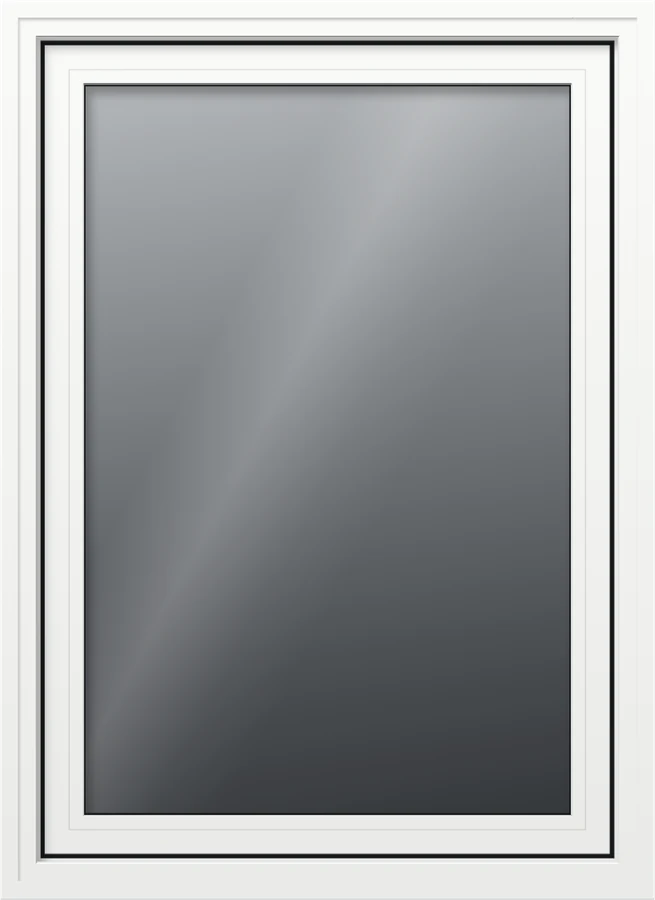
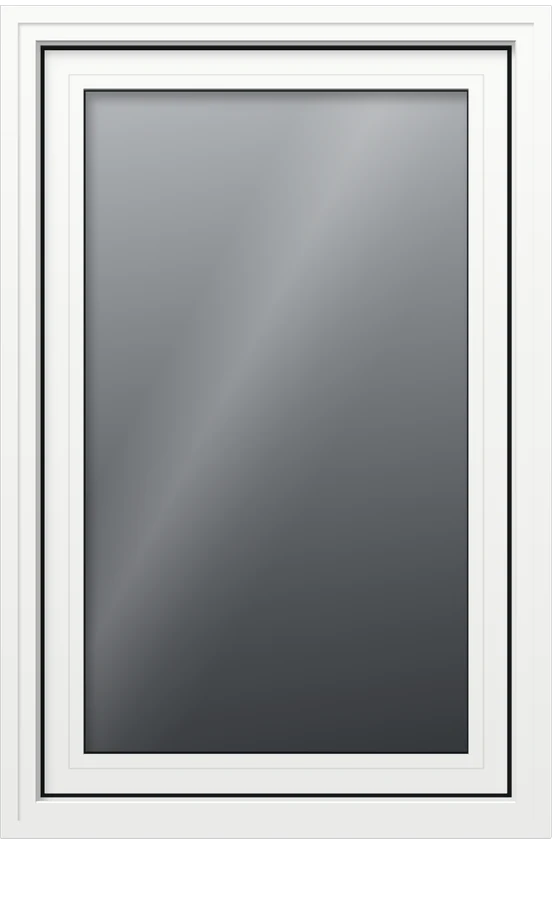
Window type cards: all four windows at the casement's size
Claude-Session: https://claude.ai/code/session_012ZnjH9GAiGLaZBTQj6WK8R

Changed region(s): [[0.0, 0.0, 1.0, 0.9644], [0.0, 0.9956, 1.0, 1.0]]

diff --git a/dist/ua/windows.html b/dist/ua/windows.html
@@ -1,1 +1,1 @@
-<!DOCTYPE html><html lang="uk"> <head><meta charset="utf-8"><meta name="viewport" content="width=device-width, initial-scale=1"><title>Типи пластикових вікон · The Windows</title><meta name="description" content="Пластикові (ПВХ) вікна на замовлення, виготовлені у Вінніпезі, Манітоба. Замір, виробництво та монтаж — The Windows."><link rel="alternate" hreflang="en" href="https://thewindows.ca/windows"><link rel="alternate" hreflang="uk" href="https://thewindows.ca/ua/windows"><link rel="alternate" hreflang="x-default" href="https://thewindows.ca/windows"><link rel="canonical" href="https://thewindows.ca/ua/windows"><meta property="og:type" content="website"><meta property="og:site_name" content="The Windows"><meta property="og:title" content="Типи пластикових вікон · The Windows"><meta property="og:description" content="Пластикові (ПВХ) вікна на замовлення, виготовлені у Вінніпезі, Манітоба. Замір, виробництво та монтаж — The Windows."><meta property="og:url" content="https://thewindows.ca/ua/windows"><meta property="og:locale" content="uk_UA"><script type="application/ld+json">{"@context":"https://schema.org","@type":"HomeAndConstructionBusiness","@id":"https://thewindows.ca/#business","name":"The Windows","description":"Пластикові (ПВХ) вікна на замовлення, виготовлені у Вінніпезі, Манітоба. Замір, виробництво та монтаж — The Windows.","url":"https://thewindows.ca/","telephone":"+12042308145","image":"https://thewindows.ca/apple-touch-icon.png","address":{"@type":"PostalAddress","addressLocality":"Winnipeg","addressRegion":"MB","addressCountry":"CA"},"areaServed":[{"@type":"City","name":"Winnipeg"},{"@type":"AdministrativeArea","name":"Manitoba"}],"knowsLanguage":["en","uk"],"makesOffer":[{"@type":"Offer","itemOffered":{"@type":"Product","name":"Поворотне (casement)","description":"Петлі збоку, відкривається назовні ручкою-кривошипом. Найщільніше прилягання серед відкривних вікон — ідеально для спалень і віталень."}},{"@type":"Offer","itemOffered":{"@type":"Product","name":"Фрамуга (awning)","description":"Петлі зверху, відкривається назовні знизу. Можна залишати відкритим у дощ; часто ставлять над глухими вікнами та в підвалах."}},{"@type":"Offer","itemOffered":{"@type":"Product","name":"Глухе (picture)","description":"Не відкривається. Найвужча рама і найбільше скла: максимум світла та теплоізоляції."}}]}</script><link rel="icon" href="/favicon.svg?v=2" type="image/svg+xml"><link rel="apple-touch-icon" href="/apple-touch-icon.png?v=2"><link rel="stylesheet" href="/_astro/about.CkfMB0qZ.css"></head> <body> <div class="topbar"> <div class="container topbar-inner"> <a href="tel:+12042308145">Тел (204) 230-8145</a> <div class="topbar-links"> <a href="https://theinstaller.ca" rel="noopener">Комерційне скління</a> <span class="langs"> <a href="/windows" class aria-label="English" title="English" hreflang="en"> <svg viewBox="0 0 60 30" width="18" height="12" preserveAspectRatio="none" aria-hidden="true"><clipPath id="uk-clip"><path d="M0 0v30h60V0z"></path></clipPath><path d="M0 0v30h60V0z" fill="#012169"></path><path d="M0 0l60 30m0-30L0 30" stroke="#fff" stroke-width="6"></path><path d="M0 0l60 30m0-30L0 30" clip-path="url(#uk-clip)" stroke="#C8102E" stroke-width="4"></path><path d="M30 0v30M0 15h60" stroke="#fff" stroke-width="10"></path><path d="M30 0v30M0 15h60" stroke="#C8102E" stroke-width="6"></path></svg> </a> <a href="/ua/windows" class="active" aria-label="Українська" title="Українська" hreflang="uk"> <svg viewBox="0 0 60 30" width="18" height="12" preserveAspectRatio="none" aria-hidden="true"><rect width="60" height="15" fill="#0057B7"></rect><rect y="15" width="60" height="15" fill="#FFD700"></rect></svg> </a> </span> </div> </div> </div> <header class="site-header"> <div class="container header-inner"> <a href="/ua/" class="brand" aria-label="The Windows home"> <img src="/_astro/logo-light.w7kFAVBZ.svg" alt="thewindows" width="381" height="52"> </a> <button class="nav-toggle" aria-expanded="false" aria-controls="nav" aria-label="Menu"> <span></span><span></span><span></span> </button> <nav id="nav" class="nav"> <a href="/ua/" draggable="false">Головна</a><a href="/ua/windows" draggable="false" aria-current="page">Вікна</a><a href="/ua/gallery" draggable="false">Галерея</a><a href="/ua/about" draggable="false">Про нас</a><a href="/ua/contact" draggable="false">Контакти</a> <a href="/ua/contact" class="nav-cta">Отримати ціну</a> <span class="langs langs-mobile"> <a href="/windows" class>EN</a> <a href="/ua/windows" class="active">UA</a> </span> </nav> </div> </header> <main>  <section class="section"> <div class="container"> <div class="section-head"> <h1 class="center">Типи вікон</h1> <p>Усі вікна виготовляються з багатокамерного ПВХ-профілю зі сталевим армуванням, зварними кутами та герметичними склопакетами. Будь-які типи можна поєднати в одну конструкцію.</p> </div> <div class="cards cards-4"> <article class="card"> <div class="media shots"><img src="/images/windows/casement-outside.webp" width="552" height="900" alt="Поворотне (casement): вигляд ззовні" loading="lazy" decoding="async"></div> <div class="body"><h3>Поворотне (casement)</h3><p>Петлі збоку, відкривається назовні ручкою-кривошипом. Найщільніше прилягання серед відкривних вікон — ідеально для спалень і віталень.</p></div> <div class="foot"><a href="#options" class="btn">Детальніше</a></div> </article><article class="card"> <div class="media shots"><img src="/images/windows/awning-outside.webp" width="900" height="651" alt="Фрамуга (awning): вигляд ззовні" loading="lazy" decoding="async"></div> <div class="body"><h3>Фрамуга (awning)</h3><p>Петлі зверху, відкривається назовні знизу. Можна залишати відкритим у дощ; часто ставлять над глухими вікнами та в підвалах.</p></div> <div class="foot"><a href="#options" class="btn">Детальніше</a></div> </article><article class="card"> <div class="media shots"><img src="/images/windows/picture-outside.webp" width="900" height="760" alt="Глухе (picture): вигляд ззовні" loading="lazy" decoding="async"></div> <div class="body"><h3>Глухе (picture)</h3><p>Не відкривається. Найвужча рама і найбільше скла: максимум світла та теплоізоляції.</p></div> <div class="foot"><a href="#options" class="btn">Детальніше</a></div> </article><article class="card"> <div class="media shots"><img src="/images/windows/fixed-outside.webp" width="655" height="900" alt="Глухе (fixed): вигляд ззовні" loading="lazy" decoding="async"></div> <div class="body"><h3>Глухе (fixed)</h3><p>Не відкривається. Рама такої ж ширини, як у поворотного, тож збігається з відкривними секціями поруч.</p></div> <div class="foot"><a href="#options" class="btn">Детальніше</a></div> </article> </div> </div> </section> <section class="section section-soft" id="options"> <div class="container split" style="align-items: start;"> <div> <h2>Скло</h2> <ul class="checklist"><li>Дво- або трикамерні склопакети</li><li>Low-E покриття, заповнення аргоном</li><li>Тепла дистанційна рамка</li><li>Загартоване скло там, де вимагають норми</li><li>Матове скло для ванних кімнат</li><li>Внутрішні шпроси різних візерунків</li></ul> </div> <div> <h2>Профіль і фурнітура</h2> <ul class="checklist"><li>Білий або ламінований зовнішній колір, текстура дерева</li><li>Багатоточкова фурнітура</li><li>Вбудовані москітні сітки</li><li>Наличники, добори та монтажна планка під вашу стіну</li><li>Нестандартні розміри та форми</li></ul> </div> </div> </section> <section class="section section-dark cta-band"> <div class="container"> <h2>Не знаєте, який тип підійде?</h2> <p>Порадимо правильну комбінацію під час заміру.</p> <a href="/ua/contact" class="btn btn-light">Замовити безкоштовний замір</a> </div> </section>  </main> <footer class="site-footer"> <div class="container footer-grid"> <div> <img src="/_astro/logo-light.w7kFAVBZ.svg" alt="thewindows" width="249" height="34"> <p style="margin-top: 0.8rem;">Пластикові вікна на замовлення — виготовлення та монтаж у Вінніпезі, Манітоба.</p> </div> <div> <h4>Сайт</h4> <ul> <li><a href="/ua/">Головна</a></li><li><a href="/ua/windows">Вікна</a></li><li><a href="/ua/gallery">Галерея</a></li><li><a href="/ua/about">Про нас</a></li><li><a href="/ua/contact">Контакти</a></li><li><a href="/ua/estimate">Онлайн-розрахунок</a></li> </ul> </div> <div> <h4>Контакти</h4> <ul> <li><a class="eml" href="/ua/contact" data-u="info" data-d="thewindows.ca">info<i class="eml-at"></i>thewindows.ca</a></li> <li><a href="tel:+12042308145">(204) 230-8145</a></li> <li>Пн–Пт 8:00–17:00</li> </ul> </div> <div> <h4>Комерційні проєкти</h4> <ul> <li>Вітрини та фасадне скління виконує наша партнерська компанія.</li> <li><a href="https://theinstaller.ca" rel="noopener">theinstaller.ca →</a></li> </ul> </div> </div> <div class="container footer-bottom"> <span>© 2026 The Windows</span> <span>Вінніпег, Манітоба</span> </div> </footer> <script type="module">const o=["pointermove","pointerdown","touchstart","keydown","scroll"],r=()=>{o.forEach(t=>removeEventListener(t,r)),document.querySelectorAll("a.eml").forEach(t=>{const e=t.dataset.u+"@"+t.dataset.d;t.href="mailto:"+e,t.textContent=e})};o.forEach(t=>addEventListener(t,r,{passive:!0}));const n=document.querySelector(".nav-toggle"),a=document.getElementById("nav");n?.addEventListener("click",()=>{const t=a.classList.toggle("open");n.setAttribute("aria-expanded",String(t))});a?.addEventListener("pointerup",t=>{const e=t.target.closest("a");!e||t.button!==0||t.ctrlKey||t.metaKey||t.shiftKey||t.altKey||e.target!=="_blank"&&(t.preventDefault(),window.location.href=e.href)});</script> </body> </html>
+<!DOCTYPE html><html lang="uk"> <head><meta charset="utf-8"><meta name="viewport" content="width=device-width, initial-scale=1"><title>Типи пластикових вікон · The Windows</title><meta name="description" content="Пластикові (ПВХ) вікна на замовлення, виготовлені у Вінніпезі, Манітоба. Замір, виробництво та монтаж — The Windows."><link rel="alternate" hreflang="en" href="https://thewindows.ca/windows"><link rel="alternate" hreflang="uk" href="https://thewindows.ca/ua/windows"><link rel="alternate" hreflang="x-default" href="https://thewindows.ca/windows"><link rel="canonical" href="https://thewindows.ca/ua/windows"><meta property="og:type" content="website"><meta property="og:site_name" content="The Windows"><meta property="og:title" content="Типи пластикових вікон · The Windows"><meta property="og:description" content="Пластикові (ПВХ) вікна на замовлення, виготовлені у Вінніпезі, Манітоба. Замір, виробництво та монтаж — The Windows."><meta property="og:url" content="https://thewindows.ca/ua/windows"><meta property="og:locale" content="uk_UA"><script type="application/ld+json">{"@context":"https://schema.org","@type":"HomeAndConstructionBusiness","@id":"https://thewindows.ca/#business","name":"The Windows","description":"Пластикові (ПВХ) вікна на замовлення, виготовлені у Вінніпезі, Манітоба. Замір, виробництво та монтаж — The Windows.","url":"https://thewindows.ca/","telephone":"+12042308145","image":"https://thewindows.ca/apple-touch-icon.png","address":{"@type":"PostalAddress","addressLocality":"Winnipeg","addressRegion":"MB","addressCountry":"CA"},"areaServed":[{"@type":"City","name":"Winnipeg"},{"@type":"AdministrativeArea","name":"Manitoba"}],"knowsLanguage":["en","uk"],"makesOffer":[{"@type":"Offer","itemOffered":{"@type":"Product","name":"Поворотне (casement)","description":"Петлі збоку, відкривається назовні ручкою-кривошипом. Найщільніше прилягання серед відкривних вікон — ідеально для спалень і віталень."}},{"@type":"Offer","itemOffered":{"@type":"Product","name":"Фрамуга (awning)","description":"Петлі зверху, відкривається назовні знизу. Можна залишати відкритим у дощ; часто ставлять над глухими вікнами та в підвалах."}},{"@type":"Offer","itemOffered":{"@type":"Product","name":"Глухе (picture)","description":"Не відкривається. Найвужча рама і найбільше скла: максимум світла та теплоізоляції."}}]}</script><link rel="icon" href="/favicon.svg?v=2" type="image/svg+xml"><link rel="apple-touch-icon" href="/apple-touch-icon.png?v=2"><link rel="stylesheet" href="/_astro/about.CkfMB0qZ.css"></head> <body> <div class="topbar"> <div class="container topbar-inner"> <a href="tel:+12042308145">Тел (204) 230-8145</a> <div class="topbar-links"> <a href="https://theinstaller.ca" rel="noopener">Комерційне скління</a> <span class="langs"> <a href="/windows" class aria-label="English" title="English" hreflang="en"> <svg viewBox="0 0 60 30" width="18" height="12" preserveAspectRatio="none" aria-hidden="true"><clipPath id="uk-clip"><path d="M0 0v30h60V0z"></path></clipPath><path d="M0 0v30h60V0z" fill="#012169"></path><path d="M0 0l60 30m0-30L0 30" stroke="#fff" stroke-width="6"></path><path d="M0 0l60 30m0-30L0 30" clip-path="url(#uk-clip)" stroke="#C8102E" stroke-width="4"></path><path d="M30 0v30M0 15h60" stroke="#fff" stroke-width="10"></path><path d="M30 0v30M0 15h60" stroke="#C8102E" stroke-width="6"></path></svg> </a> <a href="/ua/windows" class="active" aria-label="Українська" title="Українська" hreflang="uk"> <svg viewBox="0 0 60 30" width="18" height="12" preserveAspectRatio="none" aria-hidden="true"><rect width="60" height="15" fill="#0057B7"></rect><rect y="15" width="60" height="15" fill="#FFD700"></rect></svg> </a> </span> </div> </div> </div> <header class="site-header"> <div class="container header-inner"> <a href="/ua/" class="brand" aria-label="The Windows home"> <img src="/_astro/logo-light.w7kFAVBZ.svg" alt="thewindows" width="381" height="52"> </a> <button class="nav-toggle" aria-expanded="false" aria-controls="nav" aria-label="Menu"> <span></span><span></span><span></span> </button> <nav id="nav" class="nav"> <a href="/ua/" draggable="false">Головна</a><a href="/ua/windows" draggable="false" aria-current="page">Вікна</a><a href="/ua/gallery" draggable="false">Галерея</a><a href="/ua/about" draggable="false">Про нас</a><a href="/ua/contact" draggable="false">Контакти</a> <a href="/ua/contact" class="nav-cta">Отримати ціну</a> <span class="langs langs-mobile"> <a href="/windows" class>EN</a> <a href="/ua/windows" class="active">UA</a> </span> </nav> </div> </header> <main>  <section class="section"> <div class="container"> <div class="section-head"> <h1 class="center">Типи вікон</h1> <p>Усі вікна виготовляються з багатокамерного ПВХ-профілю зі сталевим армуванням, зварними кутами та герметичними склопакетами. Будь-які типи можна поєднати в одну конструкцію.</p> </div> <div class="cards cards-4"> <article class="card"> <div class="media shots"><img src="/images/windows/casement-outside.webp" width="552" height="900" alt="Поворотне (casement): вигляд ззовні" loading="lazy" decoding="async"></div> <div class="body"><h3>Поворотне (casement)</h3><p>Петлі збоку, відкривається назовні ручкою-кривошипом. Найщільніше прилягання серед відкривних вікон — ідеально для спалень і віталень.</p></div> <div class="foot"><a href="#options" class="btn">Детальніше</a></div> </article><article class="card"> <div class="media shots"><img src="/images/windows/awning-outside.webp" width="552" height="900" alt="Фрамуга (awning): вигляд ззовні" loading="lazy" decoding="async"></div> <div class="body"><h3>Фрамуга (awning)</h3><p>Петлі зверху, відкривається назовні знизу. Можна залишати відкритим у дощ; часто ставлять над глухими вікнами та в підвалах.</p></div> <div class="foot"><a href="#options" class="btn">Детальніше</a></div> </article><article class="card"> <div class="media shots"><img src="/images/windows/picture-outside.webp" width="552" height="900" alt="Глухе (picture): вигляд ззовні" loading="lazy" decoding="async"></div> <div class="body"><h3>Глухе (picture)</h3><p>Не відкривається. Найвужча рама і найбільше скла: максимум світла та теплоізоляції.</p></div> <div class="foot"><a href="#options" class="btn">Детальніше</a></div> </article><article class="card"> <div class="media shots"><img src="/images/windows/fixed-outside.webp" width="552" height="900" alt="Глухе (fixed): вигляд ззовні" loading="lazy" decoding="async"></div> <div class="body"><h3>Глухе (fixed)</h3><p>Не відкривається. Рама такої ж ширини, як у поворотного, тож збігається з відкривними секціями поруч.</p></div> <div class="foot"><a href="#options" class="btn">Детальніше</a></div> </article> </div> </div> </section> <section class="section section-soft" id="options"> <div class="container split" style="align-items: start;"> <div> <h2>Скло</h2> <ul class="checklist"><li>Дво- або трикамерні склопакети</li><li>Low-E покриття, заповнення аргоном</li><li>Тепла дистанційна рамка</li><li>Загартоване скло там, де вимагають норми</li><li>Матове скло для ванних кімнат</li><li>Внутрішні шпроси різних візерунків</li></ul> </div> <div> <h2>Профіль і фурнітура</h2> <ul class="checklist"><li>Білий або ламінований зовнішній колір, текстура дерева</li><li>Багатоточкова фурнітура</li><li>Вбудовані москітні сітки</li><li>Наличники, добори та монтажна планка під вашу стіну</li><li>Нестандартні розміри та форми</li></ul> </div> </div> </section> <section class="section section-dark cta-band"> <div class="container"> <h2>Не знаєте, який тип підійде?</h2> <p>Порадимо правильну комбінацію під час заміру.</p> <a href="/ua/contact" class="btn btn-light">Замовити безкоштовний замір</a> </div> </section>  </main> <footer class="site-footer"> <div class="container footer-grid"> <div> <img src="/_astro/logo-light.w7kFAVBZ.svg" alt="thewindows" width="249" height="34"> <p style="margin-top: 0.8rem;">Пластикові вікна на замовлення — виготовлення та монтаж у Вінніпезі, Манітоба.</p> </div> <div> <h4>Сайт</h4> <ul> <li><a href="/ua/">Головна</a></li><li><a href="/ua/windows">Вікна</a></li><li><a href="/ua/gallery">Галерея</a></li><li><a href="/ua/about">Про нас</a></li><li><a href="/ua/contact">Контакти</a></li><li><a href="/ua/estimate">Онлайн-розрахунок</a></li> </ul> </div> <div> <h4>Контакти</h4> <ul> <li><a class="eml" href="/ua/contact" data-u="info" data-d="thewindows.ca">info<i class="eml-at"></i>thewindows.ca</a></li> <li><a href="tel:+12042308145">(204) 230-8145</a></li> <li>Пн–Пт 8:00–17:00</li> </ul> </div> <div> <h4>Комерційні проєкти</h4> <ul> <li>Вітрини та фасадне скління виконує наша партнерська компанія.</li> <li><a href="https://theinstaller.ca" rel="noopener">theinstaller.ca →</a></li> </ul> </div> </div> <div class="container footer-bottom"> <span>© 2026 The Windows</span> <span>Вінніпег, Манітоба</span> </div> </footer> <script type="module">const o=["pointermove","pointerdown","touchstart","keydown","scroll"],r=()=>{o.forEach(t=>removeEventListener(t,r)),document.querySelectorAll("a.eml").forEach(t=>{const e=t.dataset.u+"@"+t.dataset.d;t.href="mailto:"+e,t.textContent=e})};o.forEach(t=>addEventListener(t,r,{passive:!0}));const n=document.querySelector(".nav-toggle"),a=document.getElementById("nav");n?.addEventListener("click",()=>{const t=a.classList.toggle("open");n.setAttribute("aria-expanded",String(t))});a?.addEventListener("pointerup",t=>{const e=t.target.closest("a");!e||t.button!==0||t.ctrlKey||t.metaKey||t.shiftKey||t.altKey||e.target!=="_blank"&&(t.preventDefault(),window.location.href=e.href)});</script> </body> </html>

diff --git a/dist/windows.html b/dist/windows.html
@@ -1,1 +1,1 @@
-<!DOCTYPE html><html lang="en"> <head><meta charset="utf-8"><meta name="viewport" content="width=device-width, initial-scale=1"><title>Casement, Awning &amp; Picture PVC Windows · The Windows</title><meta name="description" content="Custom PVC windows fabricated in Winnipeg, Manitoba. Measured, built and installed by The Windows."><link rel="alternate" hreflang="en" href="https://thewindows.ca/windows"><link rel="alternate" hreflang="uk" href="https://thewindows.ca/ua/windows"><link rel="alternate" hreflang="x-default" href="https://thewindows.ca/windows"><link rel="canonical" href="https://thewindows.ca/windows"><meta property="og:type" content="website"><meta property="og:site_name" content="The Windows"><meta property="og:title" content="Casement, Awning &#38; Picture PVC Windows · The Windows"><meta property="og:description" content="Custom PVC windows fabricated in Winnipeg, Manitoba. Measured, built and installed by The Windows."><meta property="og:url" content="https://thewindows.ca/windows"><meta property="og:locale" content="en_CA"><script type="application/ld+json">{"@context":"https://schema.org","@type":"HomeAndConstructionBusiness","@id":"https://thewindows.ca/#business","name":"The Windows","description":"Custom PVC windows fabricated in Winnipeg, Manitoba. Measured, built and installed by The Windows.","url":"https://thewindows.ca/","telephone":"+12042308145","image":"https://thewindows.ca/apple-touch-icon.png","address":{"@type":"PostalAddress","addressLocality":"Winnipeg","addressRegion":"MB","addressCountry":"CA"},"areaServed":[{"@type":"City","name":"Winnipeg"},{"@type":"AdministrativeArea","name":"Manitoba"}],"knowsLanguage":["en","uk"],"makesOffer":[{"@type":"Offer","itemOffered":{"@type":"Product","name":"Casement","description":"Hinged on the side and cranks open outward. The best seal of any opening window — ideal for bedrooms and living rooms."}},{"@type":"Offer","itemOffered":{"@type":"Product","name":"Awning","description":"Hinged at the top, opens outward from the bottom. Can stay open in the rain; common above picture windows and in basements."}},{"@type":"Offer","itemOffered":{"@type":"Product","name":"Picture","description":"Does not open. The narrowest frame and the most glass, for maximum light and insulation value."}}]}</script><link rel="icon" href="/favicon.svg?v=2" type="image/svg+xml"><link rel="apple-touch-icon" href="/apple-touch-icon.png?v=2"><link rel="stylesheet" href="/_astro/about.CkfMB0qZ.css"></head> <body> <div class="topbar"> <div class="container topbar-inner"> <a href="tel:+12042308145">Tel (204) 230-8145</a> <div class="topbar-links"> <a href="https://theinstaller.ca" rel="noopener">Commercial glazing</a> <span class="langs"> <a href="/windows" class="active" aria-label="English" title="English" hreflang="en"> <svg viewBox="0 0 60 30" width="18" height="12" preserveAspectRatio="none" aria-hidden="true"><clipPath id="uk-clip"><path d="M0 0v30h60V0z"></path></clipPath><path d="M0 0v30h60V0z" fill="#012169"></path><path d="M0 0l60 30m0-30L0 30" stroke="#fff" stroke-width="6"></path><path d="M0 0l60 30m0-30L0 30" clip-path="url(#uk-clip)" stroke="#C8102E" stroke-width="4"></path><path d="M30 0v30M0 15h60" stroke="#fff" stroke-width="10"></path><path d="M30 0v30M0 15h60" stroke="#C8102E" stroke-width="6"></path></svg> </a> <a href="/ua/windows" class aria-label="Українська" title="Українська" hreflang="uk"> <svg viewBox="0 0 60 30" width="18" height="12" preserveAspectRatio="none" aria-hidden="true"><rect width="60" height="15" fill="#0057B7"></rect><rect y="15" width="60" height="15" fill="#FFD700"></rect></svg> </a> </span> </div> </div> </div> <header class="site-header"> <div class="container header-inner"> <a href="/" class="brand" aria-label="The Windows home"> <img src="/_astro/logo-light.w7kFAVBZ.svg" alt="thewindows" width="381" height="52"> </a> <button class="nav-toggle" aria-expanded="false" aria-controls="nav" aria-label="Menu"> <span></span><span></span><span></span> </button> <nav id="nav" class="nav"> <a href="/" draggable="false">Home</a><a href="/windows" draggable="false" aria-current="page">Windows</a><a href="/gallery" draggable="false">Gallery</a><a href="/about" draggable="false">About</a><a href="/contact" draggable="false">Contact</a> <a href="/contact" class="nav-cta">Get a quote</a> <span class="langs langs-mobile"> <a href="/windows" class="active">EN</a> <a href="/ua/windows" class>UA</a> </span> </nav> </div> </header> <main>  <section class="section"> <div class="container"> <div class="section-head"> <h1 class="center">Window types</h1> <p>All windows are made from multi-chamber PVC profile with steel reinforcement, fusion-welded corners and sealed insulated glass units. Any type can be combined into a larger assembly.</p> </div> <div class="cards cards-4"> <article class="card"> <div class="media shots"><img src="/images/windows/casement-outside.webp" width="552" height="900" alt="Casement: seen from outside" loading="lazy" decoding="async"></div> <div class="body"><h3>Casement</h3><p>Hinged on the side and cranks open outward. The best seal of any opening window — ideal for bedrooms and living rooms.</p></div> <div class="foot"><a href="#options" class="btn">Learn more</a></div> </article><article class="card"> <div class="media shots"><img src="/images/windows/awning-outside.webp" width="900" height="651" alt="Awning: seen from outside" loading="lazy" decoding="async"></div> <div class="body"><h3>Awning</h3><p>Hinged at the top, opens outward from the bottom. Can stay open in the rain; common above picture windows and in basements.</p></div> <div class="foot"><a href="#options" class="btn">Learn more</a></div> </article><article class="card"> <div class="media shots"><img src="/images/windows/picture-outside.webp" width="900" height="760" alt="Picture: seen from outside" loading="lazy" decoding="async"></div> <div class="body"><h3>Picture</h3><p>Does not open. The narrowest frame and the most glass, for maximum light and insulation value.</p></div> <div class="foot"><a href="#options" class="btn">Learn more</a></div> </article><article class="card"> <div class="media shots"><img src="/images/windows/fixed-outside.webp" width="655" height="900" alt="Fixed: seen from outside" loading="lazy" decoding="async"></div> <div class="body"><h3>Fixed</h3><p>Does not open. Its frame is as wide as a casement, so it lines up with opening units beside it.</p></div> <div class="foot"><a href="#options" class="btn">Learn more</a></div> </article> </div> </div> </section> <section class="section section-soft" id="options"> <div class="container split" style="align-items: start;"> <div> <h2>Glass</h2> <ul class="checklist"><li>Double or triple pane sealed units</li><li>Low-E coatings, argon fill</li><li>Warm-edge spacer bars</li><li>Tempered glass where code requires it</li><li>Obscure / frosted glass for bathrooms</li><li>Internal grilles in several patterns</li></ul> </div> <div> <h2>Frame &amp; hardware</h2> <ul class="checklist"><li>White, or laminated exterior colours and woodgrains</li><li>Multi-point locking hardware</li><li>Integrated screens</li><li>Brickmould, jamb extensions and nailing fin to suit your wall</li><li>Custom sizes and shapes</li></ul> </div> </div> </section> <section class="section section-dark cta-band"> <div class="container"> <h2>Not sure which type suits your opening?</h2> <p>We&#39;ll recommend the right combination during the measurement visit.</p> <a href="/contact" class="btn btn-light">Book a free measurement</a> </div> </section>  </main> <footer class="site-footer"> <div class="container footer-grid"> <div> <img src="/_astro/logo-light.w7kFAVBZ.svg" alt="thewindows" width="249" height="34"> <p style="margin-top: 0.8rem;">Custom PVC windows fabricated and installed in Winnipeg, Manitoba.</p> </div> <div> <h4>Site</h4> <ul> <li><a href="/">Home</a></li><li><a href="/windows">Windows</a></li><li><a href="/gallery">Gallery</a></li><li><a href="/about">About</a></li><li><a href="/contact">Contact</a></li><li><a href="/estimate">Online estimate</a></li> </ul> </div> <div> <h4>Contact</h4> <ul> <li><a class="eml" href="/contact" data-u="info" data-d="thewindows.ca">info<i class="eml-at"></i>thewindows.ca</a></li> <li><a href="tel:+12042308145">(204) 230-8145</a></li> <li>Mon–Fri 8:00–17:00</li> </ul> </div> <div> <h4>Commercial</h4> <ul> <li>Storefront and curtain wall projects are handled by our partner company.</li> <li><a href="https://theinstaller.ca" rel="noopener">theinstaller.ca →</a></li> </ul> </div> </div> <div class="container footer-bottom"> <span>© 2026 The Windows</span> <span>Winnipeg, Manitoba</span> </div> </footer> <script type="module">const o=["pointermove","pointerdown","touchstart","keydown","scroll"],r=()=>{o.forEach(t=>removeEventListener(t,r)),document.querySelectorAll("a.eml").forEach(t=>{const e=t.dataset.u+"@"+t.dataset.d;t.href="mailto:"+e,t.textContent=e})};o.forEach(t=>addEventListener(t,r,{passive:!0}));const n=document.querySelector(".nav-toggle"),a=document.getElementById("nav");n?.addEventListener("click",()=>{const t=a.classList.toggle("open");n.setAttribute("aria-expanded",String(t))});a?.addEventListener("pointerup",t=>{const e=t.target.closest("a");!e||t.button!==0||t.ctrlKey||t.metaKey||t.shiftKey||t.altKey||e.target!=="_blank"&&(t.preventDefault(),window.location.href=e.href)});</script> </body> </html>
+<!DOCTYPE html><html lang="en"> <head><meta charset="utf-8"><meta name="viewport" content="width=device-width, initial-scale=1"><title>Casement, Awning &amp; Picture PVC Windows · The Windows</title><meta name="description" content="Custom PVC windows fabricated in Winnipeg, Manitoba. Measured, built and installed by The Windows."><link rel="alternate" hreflang="en" href="https://thewindows.ca/windows"><link rel="alternate" hreflang="uk" href="https://thewindows.ca/ua/windows"><link rel="alternate" hreflang="x-default" href="https://thewindows.ca/windows"><link rel="canonical" href="https://thewindows.ca/windows"><meta property="og:type" content="website"><meta property="og:site_name" content="The Windows"><meta property="og:title" content="Casement, Awning &#38; Picture PVC Windows · The Windows"><meta property="og:description" content="Custom PVC windows fabricated in Winnipeg, Manitoba. Measured, built and installed by The Windows."><meta property="og:url" content="https://thewindows.ca/windows"><meta property="og:locale" content="en_CA"><script type="application/ld+json">{"@context":"https://schema.org","@type":"HomeAndConstructionBusiness","@id":"https://thewindows.ca/#business","name":"The Windows","description":"Custom PVC windows fabricated in Winnipeg, Manitoba. Measured, built and installed by The Windows.","url":"https://thewindows.ca/","telephone":"+12042308145","image":"https://thewindows.ca/apple-touch-icon.png","address":{"@type":"PostalAddress","addressLocality":"Winnipeg","addressRegion":"MB","addressCountry":"CA"},"areaServed":[{"@type":"City","name":"Winnipeg"},{"@type":"AdministrativeArea","name":"Manitoba"}],"knowsLanguage":["en","uk"],"makesOffer":[{"@type":"Offer","itemOffered":{"@type":"Product","name":"Casement","description":"Hinged on the side and cranks open outward. The best seal of any opening window — ideal for bedrooms and living rooms."}},{"@type":"Offer","itemOffered":{"@type":"Product","name":"Awning","description":"Hinged at the top, opens outward from the bottom. Can stay open in the rain; common above picture windows and in basements."}},{"@type":"Offer","itemOffered":{"@type":"Product","name":"Picture","description":"Does not open. The narrowest frame and the most glass, for maximum light and insulation value."}}]}</script><link rel="icon" href="/favicon.svg?v=2" type="image/svg+xml"><link rel="apple-touch-icon" href="/apple-touch-icon.png?v=2"><link rel="stylesheet" href="/_astro/about.CkfMB0qZ.css"></head> <body> <div class="topbar"> <div class="container topbar-inner"> <a href="tel:+12042308145">Tel (204) 230-8145</a> <div class="topbar-links"> <a href="https://theinstaller.ca" rel="noopener">Commercial glazing</a> <span class="langs"> <a href="/windows" class="active" aria-label="English" title="English" hreflang="en"> <svg viewBox="0 0 60 30" width="18" height="12" preserveAspectRatio="none" aria-hidden="true"><clipPath id="uk-clip"><path d="M0 0v30h60V0z"></path></clipPath><path d="M0 0v30h60V0z" fill="#012169"></path><path d="M0 0l60 30m0-30L0 30" stroke="#fff" stroke-width="6"></path><path d="M0 0l60 30m0-30L0 30" clip-path="url(#uk-clip)" stroke="#C8102E" stroke-width="4"></path><path d="M30 0v30M0 15h60" stroke="#fff" stroke-width="10"></path><path d="M30 0v30M0 15h60" stroke="#C8102E" stroke-width="6"></path></svg> </a> <a href="/ua/windows" class aria-label="Українська" title="Українська" hreflang="uk"> <svg viewBox="0 0 60 30" width="18" height="12" preserveAspectRatio="none" aria-hidden="true"><rect width="60" height="15" fill="#0057B7"></rect><rect y="15" width="60" height="15" fill="#FFD700"></rect></svg> </a> </span> </div> </div> </div> <header class="site-header"> <div class="container header-inner"> <a href="/" class="brand" aria-label="The Windows home"> <img src="/_astro/logo-light.w7kFAVBZ.svg" alt="thewindows" width="381" height="52"> </a> <button class="nav-toggle" aria-expanded="false" aria-controls="nav" aria-label="Menu"> <span></span><span></span><span></span> </button> <nav id="nav" class="nav"> <a href="/" draggable="false">Home</a><a href="/windows" draggable="false" aria-current="page">Windows</a><a href="/gallery" draggable="false">Gallery</a><a href="/about" draggable="false">About</a><a href="/contact" draggable="false">Contact</a> <a href="/contact" class="nav-cta">Get a quote</a> <span class="langs langs-mobile"> <a href="/windows" class="active">EN</a> <a href="/ua/windows" class>UA</a> </span> </nav> </div> </header> <main>  <section class="section"> <div class="container"> <div class="section-head"> <h1 class="center">Window types</h1> <p>All windows are made from multi-chamber PVC profile with steel reinforcement, fusion-welded corners and sealed insulated glass units. Any type can be combined into a larger assembly.</p> </div> <div class="cards cards-4"> <article class="card"> <div class="media shots"><img src="/images/windows/casement-outside.webp" width="552" height="900" alt="Casement: seen from outside" loading="lazy" decoding="async"></div> <div class="body"><h3>Casement</h3><p>Hinged on the side and cranks open outward. The best seal of any opening window — ideal for bedrooms and living rooms.</p></div> <div class="foot"><a href="#options" class="btn">Learn more</a></div> </article><article class="card"> <div class="media shots"><img src="/images/windows/awning-outside.webp" width="552" height="900" alt="Awning: seen from outside" loading="lazy" decoding="async"></div> <div class="body"><h3>Awning</h3><p>Hinged at the top, opens outward from the bottom. Can stay open in the rain; common above picture windows and in basements.</p></div> <div class="foot"><a href="#options" class="btn">Learn more</a></div> </article><article class="card"> <div class="media shots"><img src="/images/windows/picture-outside.webp" width="552" height="900" alt="Picture: seen from outside" loading="lazy" decoding="async"></div> <div class="body"><h3>Picture</h3><p>Does not open. The narrowest frame and the most glass, for maximum light and insulation value.</p></div> <div class="foot"><a href="#options" class="btn">Learn more</a></div> </article><article class="card"> <div class="media shots"><img src="/images/windows/fixed-outside.webp" width="552" height="900" alt="Fixed: seen from outside" loading="lazy" decoding="async"></div> <div class="body"><h3>Fixed</h3><p>Does not open. Its frame is as wide as a casement, so it lines up with opening units beside it.</p></div> <div class="foot"><a href="#options" class="btn">Learn more</a></div> </article> </div> </div> </section> <section class="section section-soft" id="options"> <div class="container split" style="align-items: start;"> <div> <h2>Glass</h2> <ul class="checklist"><li>Double or triple pane sealed units</li><li>Low-E coatings, argon fill</li><li>Warm-edge spacer bars</li><li>Tempered glass where code requires it</li><li>Obscure / frosted glass for bathrooms</li><li>Internal grilles in several patterns</li></ul> </div> <div> <h2>Frame &amp; hardware</h2> <ul class="checklist"><li>White, or laminated exterior colours and woodgrains</li><li>Multi-point locking hardware</li><li>Integrated screens</li><li>Brickmould, jamb extensions and nailing fin to suit your wall</li><li>Custom sizes and shapes</li></ul> </div> </div> </section> <section class="section section-dark cta-band"> <div class="container"> <h2>Not sure which type suits your opening?</h2> <p>We&#39;ll recommend the right combination during the measurement visit.</p> <a href="/contact" class="btn btn-light">Book a free measurement</a> </div> </section>  </main> <footer class="site-footer"> <div class="container footer-grid"> <div> <img src="/_astro/logo-light.w7kFAVBZ.svg" alt="thewindows" width="249" height="34"> <p style="margin-top: 0.8rem;">Custom PVC windows fabricated and installed in Winnipeg, Manitoba.</p> </div> <div> <h4>Site</h4> <ul> <li><a href="/">Home</a></li><li><a href="/windows">Windows</a></li><li><a href="/gallery">Gallery</a></li><li><a href="/about">About</a></li><li><a href="/contact">Contact</a></li><li><a href="/estimate">Online estimate</a></li> </ul> </div> <div> <h4>Contact</h4> <ul> <li><a class="eml" href="/contact" data-u="info" data-d="thewindows.ca">info<i class="eml-at"></i>thewindows.ca</a></li> <li><a href="tel:+12042308145">(204) 230-8145</a></li> <li>Mon–Fri 8:00–17:00</li> </ul> </div> <div> <h4>Commercial</h4> <ul> <li>Storefront and curtain wall projects are handled by our partner company.</li> <li><a href="https://theinstaller.ca" rel="noopener">theinstaller.ca →</a></li> </ul> </div> </div> <div class="container footer-bottom"> <span>© 2026 The Windows</span> <span>Winnipeg, Manitoba</span> </div> </footer> <script type="module">const o=["pointermove","pointerdown","touchstart","keydown","scroll"],r=()=>{o.forEach(t=>removeEventListener(t,r)),document.querySelectorAll("a.eml").forEach(t=>{const e=t.dataset.u+"@"+t.dataset.d;t.href="mailto:"+e,t.textContent=e})};o.forEach(t=>addEventListener(t,r,{passive:!0}));const n=document.querySelector(".nav-toggle"),a=document.getElementById("nav");n?.addEventListener("click",()=>{const t=a.classList.toggle("open");n.setAttribute("aria-expanded",String(t))});a?.addEventListener("pointerup",t=>{const e=t.target.closest("a");!e||t.button!==0||t.ctrlKey||t.metaKey||t.shiftKey||t.altKey||e.target!=="_blank"&&(t.preventDefault(),window.location.href=e.href)});</script> </body> </html>
